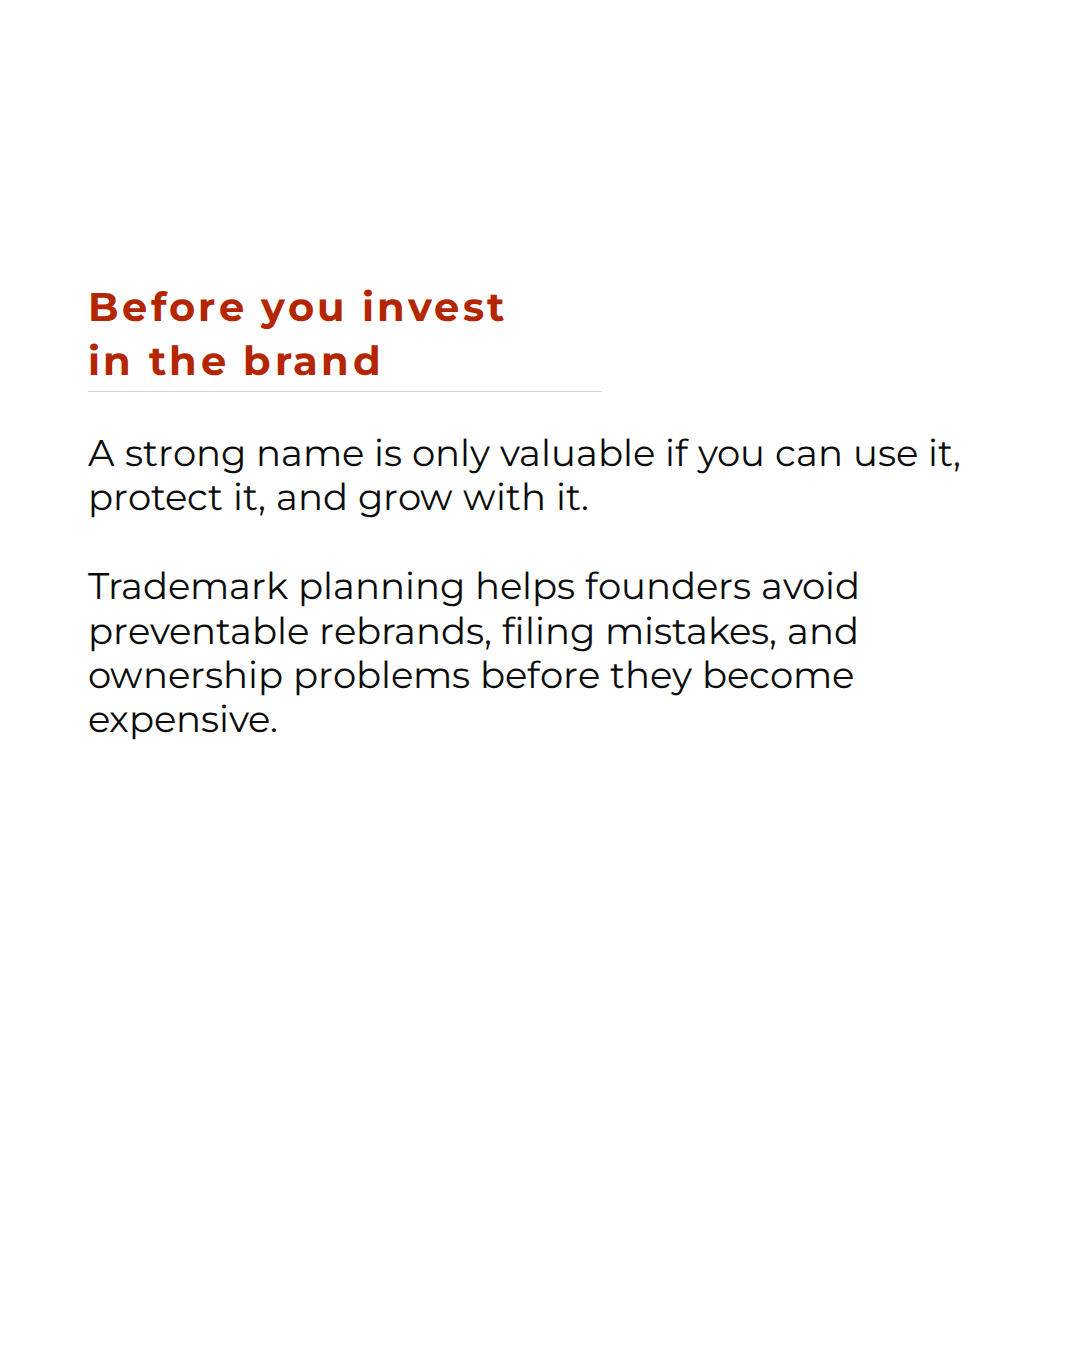
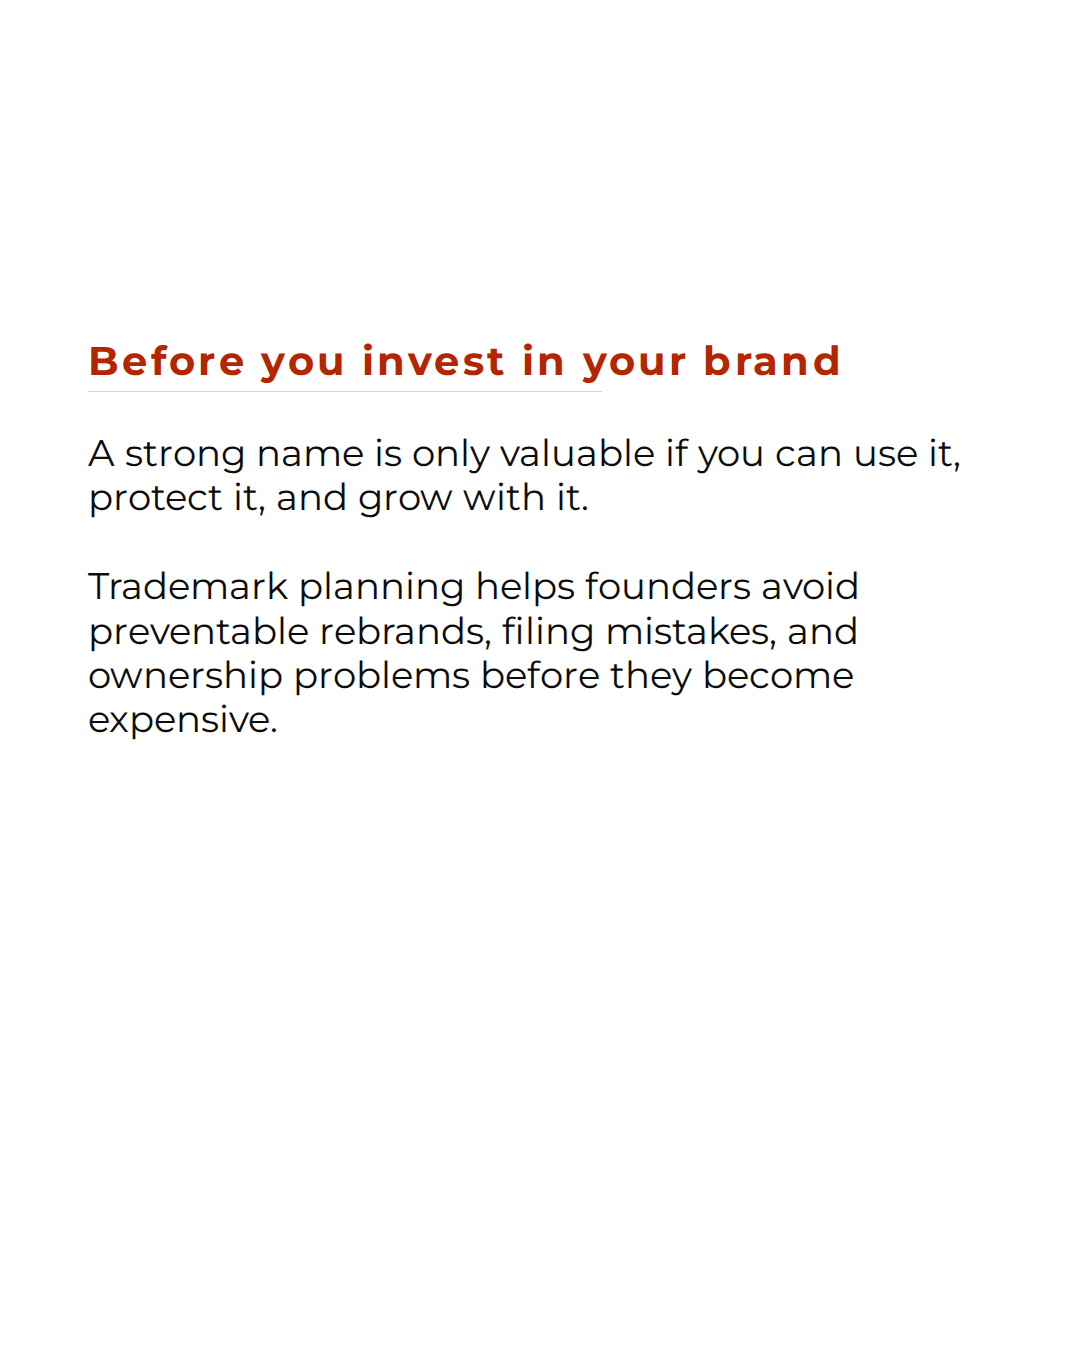
Revise trademark guide carousel with repository image
Rebrand the trademark-guide-launch carousel as the Trademark
Application Roadmap: new cover title, single-line middle titles, and
the abstract-trademark.svg brand-tag illustration on the coverage
slide, referenced by its repository-relative path.

Add www.vestcounsel.com as a third contact line on the closing
template, in the same accent styling and baseline rhythm as the phone
and email. Make the middle-slide image slot yield to long copy: the
content column is bounded at the bottom margin and the image shrinks
into the remaining space down to a 220px legibility floor, below which
validation fails the slide instead of overflowing.

Claude-Session: https://claude.ai/code/session_01DcJjyEqKKpuBm11ozHHHg2

Changed region(s): [[0.0611, 0.2178, 0.7944, 0.28]]

diff --git a/templates/middle.html b/templates/middle.html
@@ -49,15 +49,19 @@
      body, then illustration. The 24px flow gap plus the image's extra
      12px keeps at least 36px between the last text line and the image. */
   .content{ position:absolute; left:var(--ml); right:var(--ml); top:431px;
-            display:flex; flex-direction:column; align-items:flex-start;
-            gap:24px; }
+            bottom:88px; display:flex; flex-direction:column;
+            align-items:flex-start; gap:24px; }
   .subheading{ --fs:72; margin:0; font-size:calc(var(--fs) * 1px);
                line-height:1.0833; font-weight:700; white-space:pre-wrap;
                align-self:stretch; }
   .body{ --fs:37; margin:0; font-size:calc(var(--fs) * 1px);
          line-height:1.2; font-weight:400; white-space:pre-wrap;
          align-self:stretch; }
-  .illustration{ margin-top:12px; width:500px; height:500px; flex:none;
+  /* The image yields to the text: when copy runs long it shrinks into the
+     remaining space (never the other way around), down to a legibility
+     floor — below that it overflows and the generator fails the slide. */
+  .illustration{ margin-top:12px; flex:0 1 auto; min-height:220px;
+                 width:auto; max-width:100%; max-height:500px;
                  object-fit:contain; object-position:left top; }
 </style>
 </head>

diff --git a/templates/closing.html b/templates/closing.html
@@ -40,6 +40,8 @@
   .phone   { --fs:24; --lh:1; --bl:519.7; letter-spacing:.058em; color:var(--accent); }
   .email   { --fs:24; --lh:1; --bl:560.7; letter-spacing:.058em; color:var(--accent);
              text-decoration:none; }
+  .web     { --fs:24; --lh:1; --bl:601.7; letter-spacing:.058em; color:var(--accent);
+             text-decoration:none; }
 
   /* Cat: 465 x 677, on the right margin, 138 up from the bottom.
      LOCKED BRAND ASSET: the cat renders identically on every
@@ -65,6 +67,7 @@
   <p class="bl-top subheading">{{CTA_SUBHEADING}}</p>
   <p class="bl-top phone">+1 888 VEST-599</p>
   <a class="bl-top email" href="mailto:hello@vestcounsel.com">hello@vestcounsel.com</a>
+  <a class="bl-top web" href="https://www.vestcounsel.com">www.vestcounsel.com</a>
 
   <!-- artwork, nothing to edit below this line -->
     <svg class="cat" viewBox="0 0 1302.97 1894.9" xmlns="http://www.w3.org/2000/svg" aria-hidden="true">

diff --git a/scripts/generate.js b/scripts/generate.js
@@ -226,7 +226,7 @@ function buildSlides(postId, rows, templates, ctaLibrary) {
     name: 'closing',
     template: 'closing',
     html: closingHtml,
-    checks: ['.headline', '.subheading', '.phone', '.email', '.cat'],
+    checks: ['.headline', '.subheading', '.phone', '.email', '.web', '.cat'],
   });
 
   return slides;
